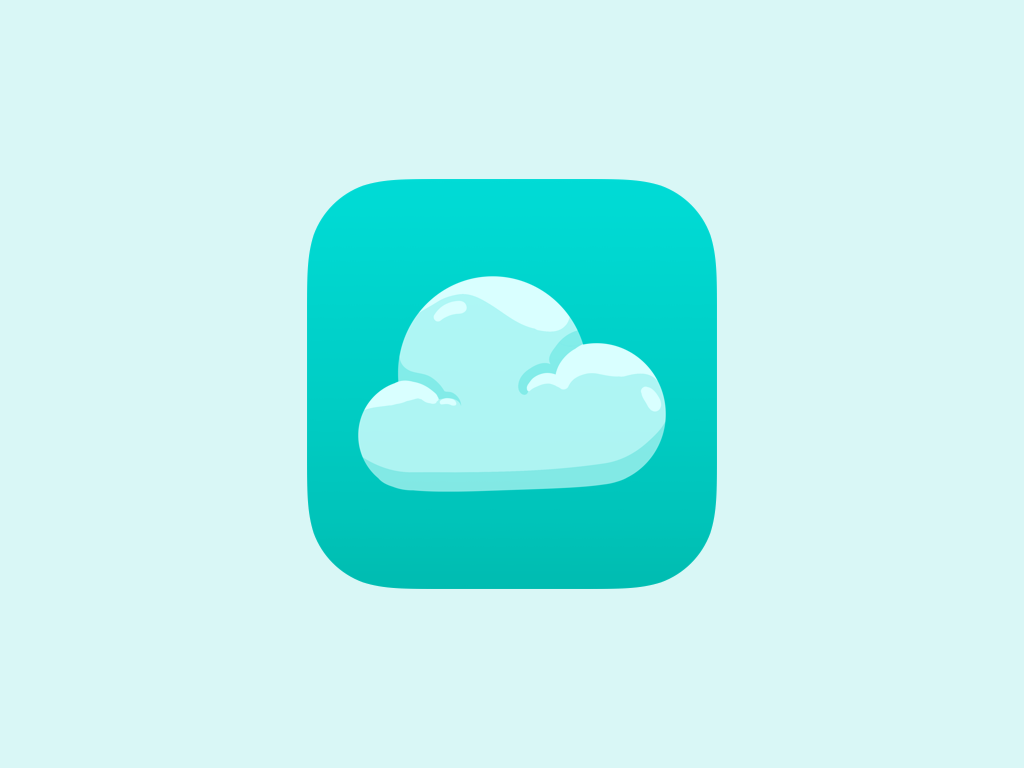
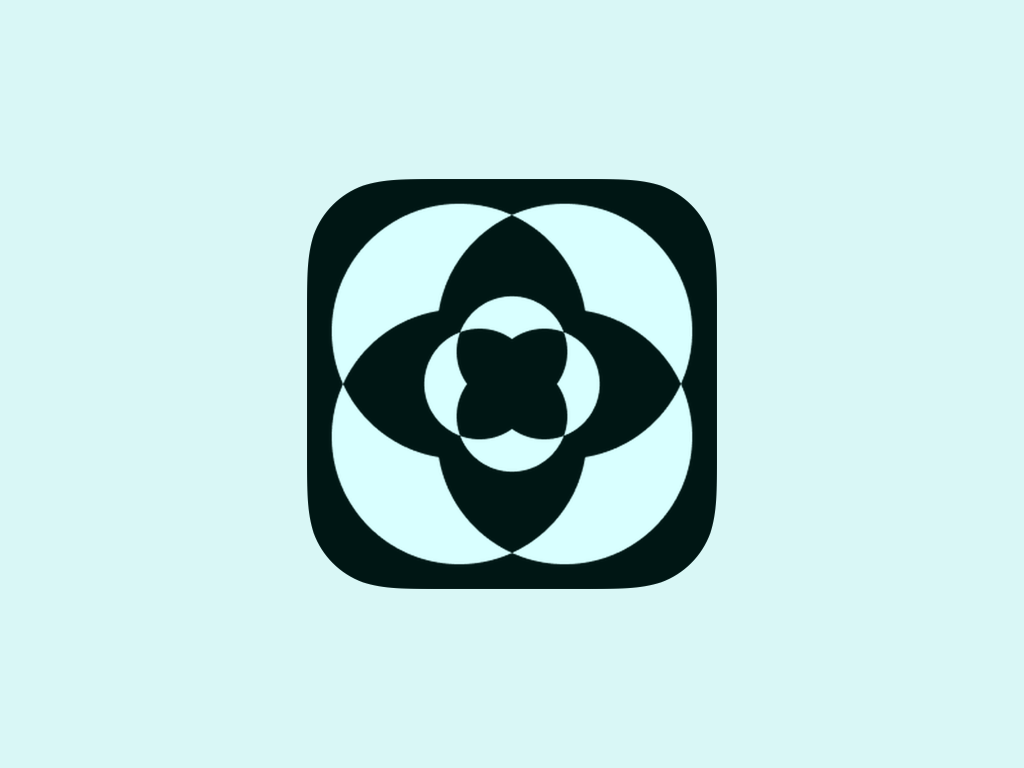
[Chore] swiftpm 파일 관련 정보 수정, AppIcon 추가

Changed region(s): [[0.2812, 0.2188, 0.7188, 0.7812]]

diff --git a/FlowerMe.swiftpm/Deprecated/FMFlowerMainView.swift b/FlowerMe.swiftpm/Deprecated/FMFlowerMainView.swift
@@ -1,77 +1,77 @@
-////
-////  SwiftUIView.swift
-////  
-////
-////  Created by Celan on 2023/04/04.
-////
 //
-//import SwiftUI
+//  SwiftUIView.swift
+//  
 //
-//struct FMFlowerMainView: View {
-//    @ObservedObject var gestaltVM: GestaltVM
-//    @State private var selection: Int = 0
-//    
-//    var body: some View {
-//        VStack {
-//            Picker("", selection: $selection) {
-//                ForEach(
-//                    0..<Constants.Gestalt.GESTALT_THEORIES.count,
-//                    id: \.self) { index in
-//                        Text(Constants.Gestalt.GESTALT_THEORIES[index])
-//                            .tag(index)
-//                    }
-//            }
-//            .pickerStyle(.segmented)
-//            .padding(.horizontal, 24)
-//            .frame(alignment: .top)
-//            .zIndex(99)
-//            
-//            switch Constants.Gestalt.GESTALT_THEORIES[selection] {
-//            case Constants.Gestalt.SIMILARITY:
-//                SimilarityView(gestaltVM: gestaltVM)
-//                    .navigationTitle(Constants.Gestalt.SIMILARITY)
-//                    .frame(
-//                        alignment: .center
-//                    )
-//                
-//                Spacer()
-//            case Constants.Gestalt.PROXIMITY:
-//                ProximityView(gestaltVM: gestaltVM)
-//                    .navigationTitle(Constants.Gestalt.PROXIMITY)
-//                    .frame(
-//                        maxHeight: .infinity
-//                    )
-//            case Constants.Gestalt.CONTINUITY:
-//                ContinuationView(gestaltVM: gestaltVM)
-//                    .navigationTitle(Constants.Gestalt.CONTINUITY)
-//                    .frame(
-//                        maxHeight: .infinity,
-//                        alignment: .center
-//                    )
-//            case Constants.Gestalt.CLOSURE:
-//                ClosureView(gestaltVM: gestaltVM)
-//                    .navigationTitle(Constants.Gestalt.CLOSURE)
-//                    .frame(maxWidth: .infinity)
-//            case Constants.Gestalt.PRAGNANZ:
-//                PragnanzView(gestaltVM: gestaltVM)
-//                    .navigationTitle(Constants.Gestalt.PRAGNANZ)
-//                    .frame(
-//                        maxHeight: .infinity,
-//                        alignment: .center
-//                    )
-//            case Constants.Gestalt.FIGUREGROUND:
-//                Spacer()
-//                
-//                FigureGroundView(gestaltVM: gestaltVM)
-//                    .navigationTitle(Constants.Gestalt.FIGUREGROUND)
-//                    .frame(
-//                        maxHeight: .infinity,
-//                        alignment: .center
-//                    )
-//            default:
-//                Text("UNKNOWN")
-//            }
-//            
-//        }
-//    }
-//}
+//  Created by Celan on 2023/04/04.
+//
+
+import SwiftUI
+
+struct FMFlowerMainView: View {
+    @ObservedObject var gestaltVM: GestaltVM
+    @State private var selection: Int = 0
+    
+    var body: some View {
+        VStack {
+            Picker("", selection: $selection) {
+                ForEach(
+                    0..<Constants.Gestalt.GESTALT_THEORIES.count,
+                    id: \.self) { index in
+                        Text(Constants.Gestalt.GESTALT_THEORIES[index])
+                            .tag(index)
+                    }
+            }
+            .pickerStyle(.segmented)
+            .padding(.horizontal, 24)
+            .frame(alignment: .top)
+            .zIndex(99)
+            
+            switch Constants.Gestalt.GESTALT_THEORIES[selection] {
+            case Constants.Gestalt.SIMILARITY:
+                SimilarityView(gestaltVM: gestaltVM)
+                    .navigationTitle(Constants.Gestalt.SIMILARITY)
+                    .frame(
+                        alignment: .center
+                    )
+                
+                Spacer()
+            case Constants.Gestalt.PROXIMITY:
+                ProximityView(gestaltVM: gestaltVM)
+                    .navigationTitle(Constants.Gestalt.PROXIMITY)
+                    .frame(
+                        maxHeight: .infinity
+                    )
+            case Constants.Gestalt.CONTINUITY:
+                ContinuationView(gestaltVM: gestaltVM)
+                    .navigationTitle(Constants.Gestalt.CONTINUITY)
+                    .frame(
+                        maxHeight: .infinity,
+                        alignment: .center
+                    )
+            case Constants.Gestalt.CLOSURE:
+                ClosureView(gestaltVM: gestaltVM)
+                    .navigationTitle(Constants.Gestalt.CLOSURE)
+                    .frame(maxWidth: .infinity)
+            case Constants.Gestalt.PRAGNANZ:
+                PragnanzView(gestaltVM: gestaltVM)
+                    .navigationTitle(Constants.Gestalt.PRAGNANZ)
+                    .frame(
+                        maxHeight: .infinity,
+                        alignment: .center
+                    )
+            case Constants.Gestalt.FIGUREGROUND:
+                Spacer()
+                
+                FigureGroundView(gestaltVM: gestaltVM)
+                    .navigationTitle(Constants.Gestalt.FIGUREGROUND)
+                    .frame(
+                        maxHeight: .infinity,
+                        alignment: .center
+                    )
+            default:
+                Text("UNKNOWN")
+            }
+            
+        }
+    }
+}

diff --git a/FlowerMe.swiftpm/Package.swift b/FlowerMe.swiftpm/Package.swift
@@ -8,19 +8,19 @@ import PackageDescription
 import AppleProductTypes
 
 let package = Package(
-    name: "FlowerMe",
+    name: "FloweredGestalts",
     platforms: [
         .iOS("15.2")
     ],
     products: [
         .iOSApplication(
-            name: "FlowerMe",
+            name: "FloweredGestalts",
             targets: ["AppModule"],
             bundleIdentifier: "com.Celan.Temp",
             teamIdentifier: "67M6ZS7KS6",
             displayVersion: "1.0",
             bundleVersion: "1",
-            appIcon: .placeholder(icon: .cloud),
+            appIcon: .asset("AppIcon"),
             accentColor: .presetColor(.mint),
             supportedDeviceFamilies: [
                 .pad,

diff --git a/FlowerMe.swiftpm/FloweredGestalts.swift b/FlowerMe.swiftpm/FloweredGestalts.swift
@@ -1,7 +1,7 @@
 import SwiftUI
 
 @main
-struct MyApp: App {
+struct FloweredGestalts: App {
     @ObservedObject var gestaltVM: GestaltVM = GestaltVM()
     
     var body: some Scene {
